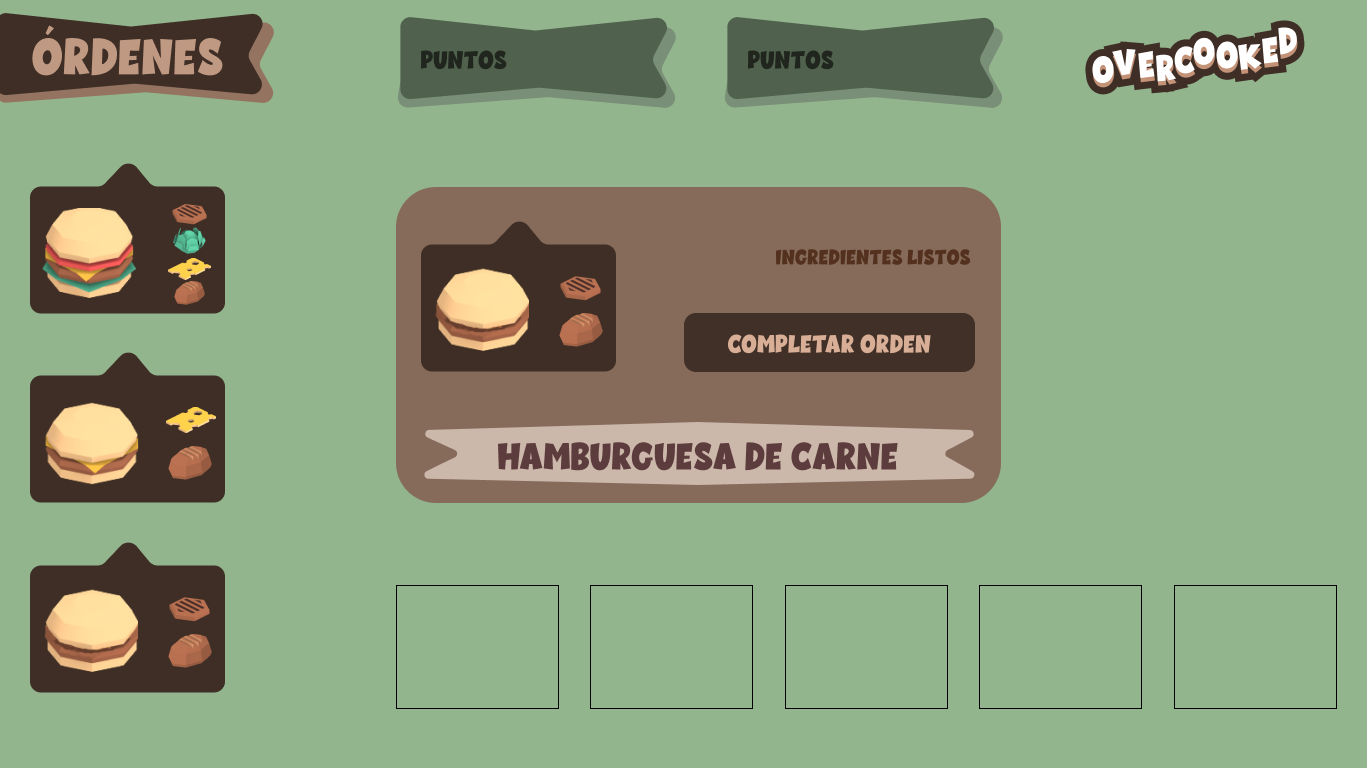
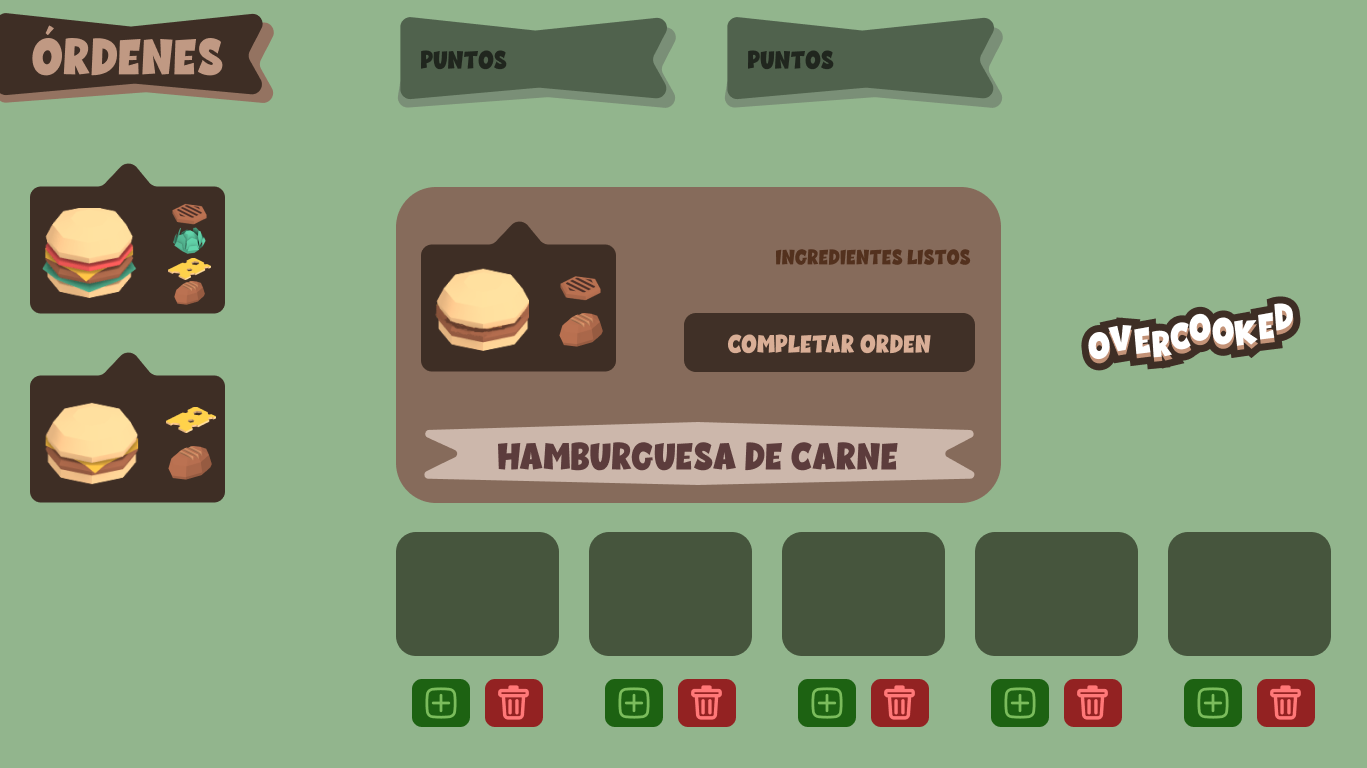
🟢Adding: Merge Royvin3 Cinta classes, added cinta JPnales

diff --git a/Overcooked/src/main/java/com/demo/overcooked/ui/GameScreenUI.java b/Overcooked/src/main/java/com/demo/overcooked/ui/GameScreenUI.java
@@ -49,6 +49,11 @@ public class GameScreenUI extends javax.swing.JFrame {
         orderThreePanel = new javax.swing.JPanel();
         mainOrderPanel = new javax.swing.JPanel();
         gameTimerLabel = new javax.swing.JLabel();
+        cintaIngrediente05 = new javax.swing.JPanel();
+        cintaIngrediente04 = new javax.swing.JPanel();
+        cintaIngrediente03 = new javax.swing.JPanel();
+        cintaIngrediente02 = new javax.swing.JPanel();
+        cintaIngrediente01 = new javax.swing.JPanel();
         background = new javax.swing.JLabel();
 
         javax.swing.GroupLayout jDesktopPane1Layout = new javax.swing.GroupLayout(jDesktopPane1);
@@ -122,6 +127,73 @@ public class GameScreenUI extends javax.swing.JFrame {
         gameTimerLabel.setText("00:00");
         gameTimerLabel.setHorizontalTextPosition(javax.swing.SwingConstants.CENTER);
         getContentPane().add(gameTimerLabel, new org.netbeans.lib.awtextra.AbsoluteConstraints(870, 30, 80, 50));
+
+        javax.swing.GroupLayout cintaIngrediente05Layout = new javax.swing.GroupLayout(cintaIngrediente05);
+        cintaIngrediente05.setLayout(cintaIngrediente05Layout);
+        cintaIngrediente05Layout.setHorizontalGroup(
+            cintaIngrediente05Layout.createParallelGroup(javax.swing.GroupLayout.Alignment.LEADING)
+            .addGap(0, 170, Short.MAX_VALUE)
+        );
+        cintaIngrediente05Layout.setVerticalGroup(
+            cintaIngrediente05Layout.createParallelGroup(javax.swing.GroupLayout.Alignment.LEADING)
+            .addGap(0, 200, Short.MAX_VALUE)
+        );
+
+        getContentPane().add(cintaIngrediente05, new org.netbeans.lib.awtextra.AbsoluteConstraints(1160, 530, -1, 200));
+
+        javax.swing.GroupLayout cintaIngrediente04Layout = new javax.swing.GroupLayout(cintaIngrediente04);
+        cintaIngrediente04.setLayout(cintaIngrediente04Layout);
+        cintaIngrediente04Layout.setHorizontalGroup(
+            cintaIngrediente04Layout.createParallelGroup(javax.swing.GroupLayout.Alignment.LEADING)
+            .addGap(0, 170, Short.MAX_VALUE)
+        );
+        cintaIngrediente04Layout.setVerticalGroup(
+            cintaIngrediente04Layout.createParallelGroup(javax.swing.GroupLayout.Alignment.LEADING)
+            .addGap(0, 200, Short.MAX_VALUE)
+        );
+
+        getContentPane().add(cintaIngrediente04, new org.netbeans.lib.awtextra.AbsoluteConstraints(970, 530, 170, 200));
+
+        javax.swing.GroupLayout cintaIngrediente03Layout = new javax.swing.GroupLayout(cintaIngrediente03);
+        cintaIngrediente03.setLayout(cintaIngrediente03Layout);
+        cintaIngrediente03Layout.setHorizontalGroup(
+            cintaIngrediente03Layout.createParallelGroup(javax.swing.GroupLayout.Alignment.LEADING)
+            .addGap(0, 170, Short.MAX_VALUE)
+        );
+        cintaIngrediente03Layout.setVerticalGroup(
+            cintaIngrediente03Layout.createParallelGroup(javax.swing.GroupLayout.Alignment.LEADING)
+            .addGap(0, 200, Short.MAX_VALUE)
+        );
+
+        getContentPane().add(cintaIngrediente03, new org.netbeans.lib.awtextra.AbsoluteConstraints(780, 530, 170, 200));
+
+        javax.swing.GroupLayout cintaIngrediente02Layout = new javax.swing.GroupLayout(cintaIngrediente02);
+        cintaIngrediente02.setLayout(cintaIngrediente02Layout);
+        cintaIngrediente02Layout.setHorizontalGroup(
+            cintaIngrediente02Layout.createParallelGroup(javax.swing.GroupLayout.Alignment.LEADING)
+            .addGap(0, 160, Short.MAX_VALUE)
+        );
+        cintaIngrediente02Layout.setVerticalGroup(
+            cintaIngrediente02Layout.createParallelGroup(javax.swing.GroupLayout.Alignment.LEADING)
+            .addGap(0, 200, Short.MAX_VALUE)
+        );
+
+        getContentPane().add(cintaIngrediente02, new org.netbeans.lib.awtextra.AbsoluteConstraints(590, 530, 160, 200));
+
+        javax.swing.GroupLayout cintaIngrediente01Layout = new javax.swing.GroupLayout(cintaIngrediente01);
+        cintaIngrediente01.setLayout(cintaIngrediente01Layout);
+        cintaIngrediente01Layout.setHorizontalGroup(
+            cintaIngrediente01Layout.createParallelGroup(javax.swing.GroupLayout.Alignment.LEADING)
+            .addGap(0, 160, Short.MAX_VALUE)
+        );
+        cintaIngrediente01Layout.setVerticalGroup(
+            cintaIngrediente01Layout.createParallelGroup(javax.swing.GroupLayout.Alignment.LEADING)
+            .addGap(0, 200, Short.MAX_VALUE)
+        );
+
+        getContentPane().add(cintaIngrediente01, new org.netbeans.lib.awtextra.AbsoluteConstraints(400, 530, 160, 200));
+
+        background.setIcon(new javax.swing.ImageIcon("C:\\Users\\Puta'\\Desktop\\proyecto-ed\\ProyectoEstructuraDeDatos\\Overcooked\\assets\\backgrounds\\GameScreen.png")); // NOI18N
         getContentPane().add(background, new org.netbeans.lib.awtextra.AbsoluteConstraints(0, 0, 1360, 760));
 
         pack();
@@ -192,6 +264,11 @@ public class GameScreenUI extends javax.swing.JFrame {
 
     // Variables declaration - do not modify//GEN-BEGIN:variables
     private javax.swing.JLabel background;
+    private javax.swing.JPanel cintaIngrediente01;
+    private javax.swing.JPanel cintaIngrediente02;
+    private javax.swing.JPanel cintaIngrediente03;
+    private javax.swing.JPanel cintaIngrediente04;
+    private javax.swing.JPanel cintaIngrediente05;
     private javax.swing.JLabel gameTimerLabel;
     private javax.swing.JDesktopPane jDesktopPane1;
     private javax.swing.JPanel mainOrderPanel;
